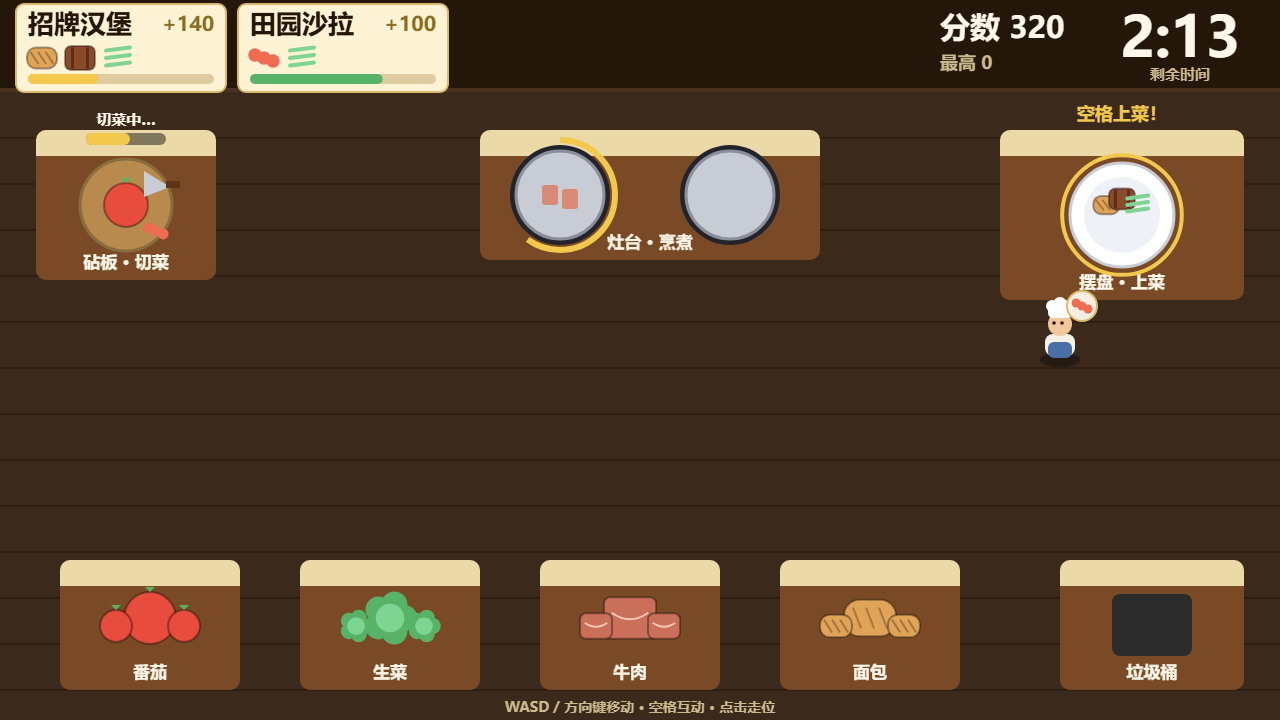
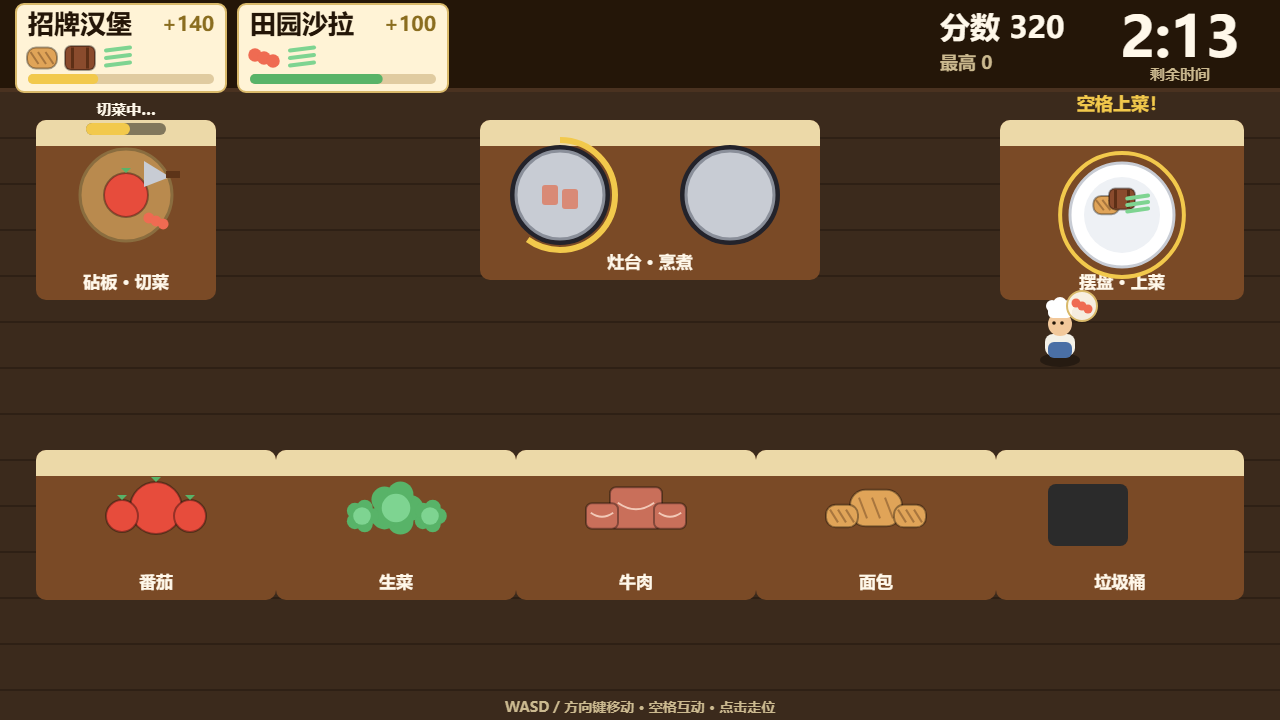
v2: tighten vertical layout — stations taller, ingredient bins up to y450 as one continuous counter, middle void 260px to 150px

diff --git a/game/src/config.js b/game/src/config.js
@@ -51,10 +51,10 @@ export function recipeById(id) { return RECIPES.find((r) => r.id === id); }
 
 // Floor plan (logical pixels). Every station rect is a solid counter the chef walks around.
 export const STATIONS = {
-  board: { x: 36, y: 130, w: 180, h: 150, label: '砧板 · 切菜' },
-  stove: { x: 480, y: 130, w: 340, h: 130, label: '灶台 · 烹煮' },
-  plate: { x: 1000, y: 130, w: 244, h: 170, label: '摆盘 · 上菜' },
-  trash: { x: 1060, y: 560, w: 184, h: 130, label: '垃圾桶' },
+  board: { x: 36, y: 120, w: 180, h: 180, label: '砧板 · 切菜' },
+  stove: { x: 480, y: 120, w: 340, h: 160, label: '灶台 · 烹煮' },
+  plate: { x: 1000, y: 120, w: 244, h: 180, label: '摆盘 · 上菜' },
+  trash: { x: 996, y: 450, w: 248, h: 150, label: '垃圾桶' },
 };
 /** The two pots on the stove (centres, logical pixels). */
 export const POTS = [
@@ -63,14 +63,14 @@ export const POTS = [
 ];
 /** The four ingredient bins along the bottom counter. */
 export const BINS = [
-  { id: 'tomato', x: 60, y: 560, w: 180, h: 130 },
-  { id: 'lettuce', x: 300, y: 560, w: 180, h: 130 },
-  { id: 'beef', x: 540, y: 560, w: 180, h: 130 },
-  { id: 'bread', x: 780, y: 560, w: 180, h: 130 },
+  { id: 'tomato', x: 36, y: 450, w: 240, h: 150 },
+  { id: 'lettuce', x: 276, y: 450, w: 240, h: 150 },
+  { id: 'beef', x: 516, y: 450, w: 240, h: 150 },
+  { id: 'bread', x: 756, y: 450, w: 240, h: 150 },
 ];
 export const PLATE_POS = { x: 1122, y: 215, r: 52 };
-export const BOARD_POS = { x: 126, y: 205, r: 46 };
-export const CHEF_START = { x: 640, y: 430 };
+export const BOARD_POS = { x: 126, y: 195, r: 46 };
+export const CHEF_START = { x: 640, y: 385 };
 export const INTERACT_RANGE = 84;
 export const CHOP_SECONDS = 1.2;
 export const COOK_SECONDS = 4;

diff --git a/game/src/render.js b/game/src/render.js
@@ -238,7 +238,7 @@ function drawStations(ctx, world, now) {
     ctx.strokeStyle = PALETTE.gold;
     ctx.lineWidth = 4;
     ctx.beginPath(); ctx.arc(PLATE_POS.x, PLATE_POS.y, PLATE_POS.r + 8 + Math.sin(now / 200) * 2, 0, Math.PI * 2); ctx.stroke();
-    text(ctx, '空格上菜！', PLATE_POS.x, PLATE_POS.y - PLATE_POS.r - 48, 18, PALETTE.gold, 'center');
+    text(ctx, '空格上菜！', PLATE_POS.x, PLATE_POS.y - PLATE_POS.r - 58, 18, PALETTE.gold, 'center');
   }
   ctx.fillStyle = '#ffffff';
   ctx.beginPath(); ctx.arc(PLATE_POS.x, PLATE_POS.y, PLATE_POS.r, 0, Math.PI * 2); ctx.fill();
